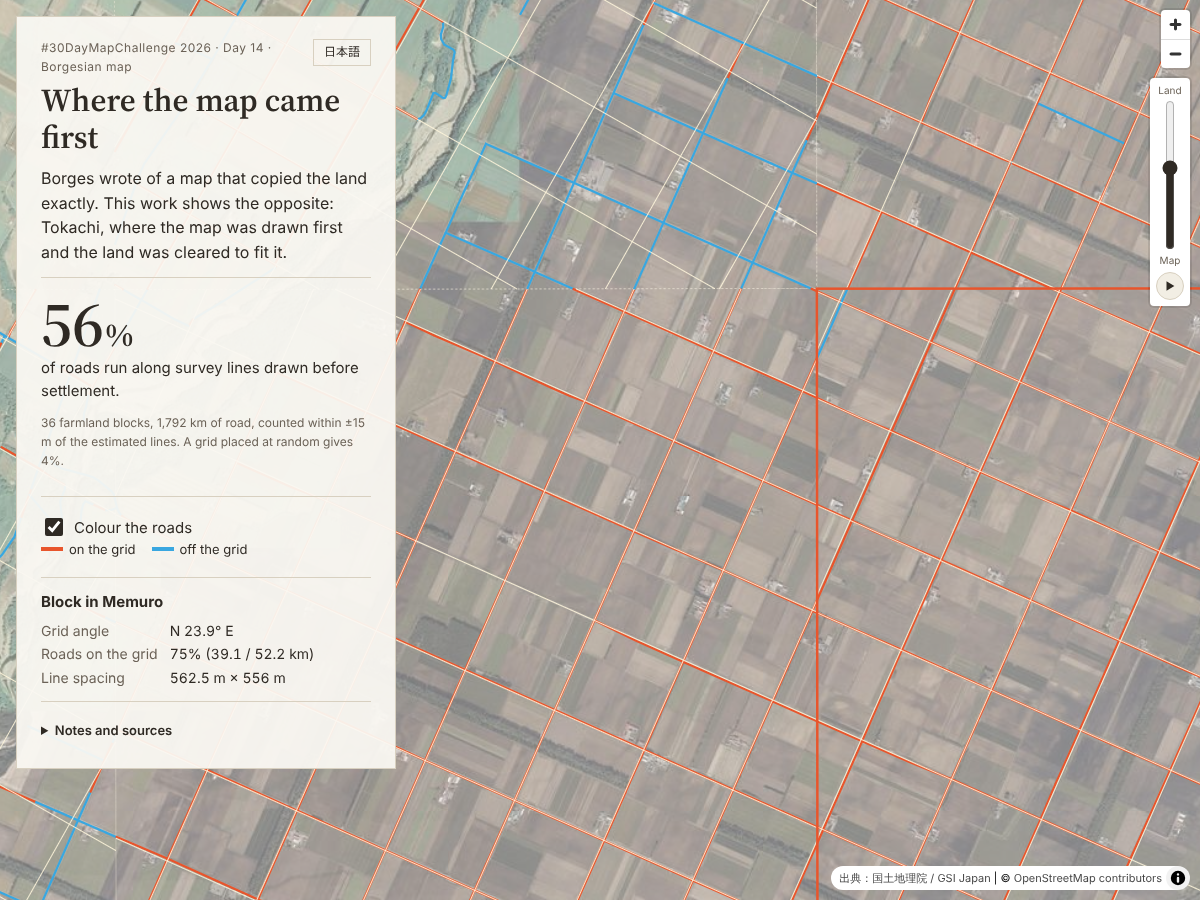
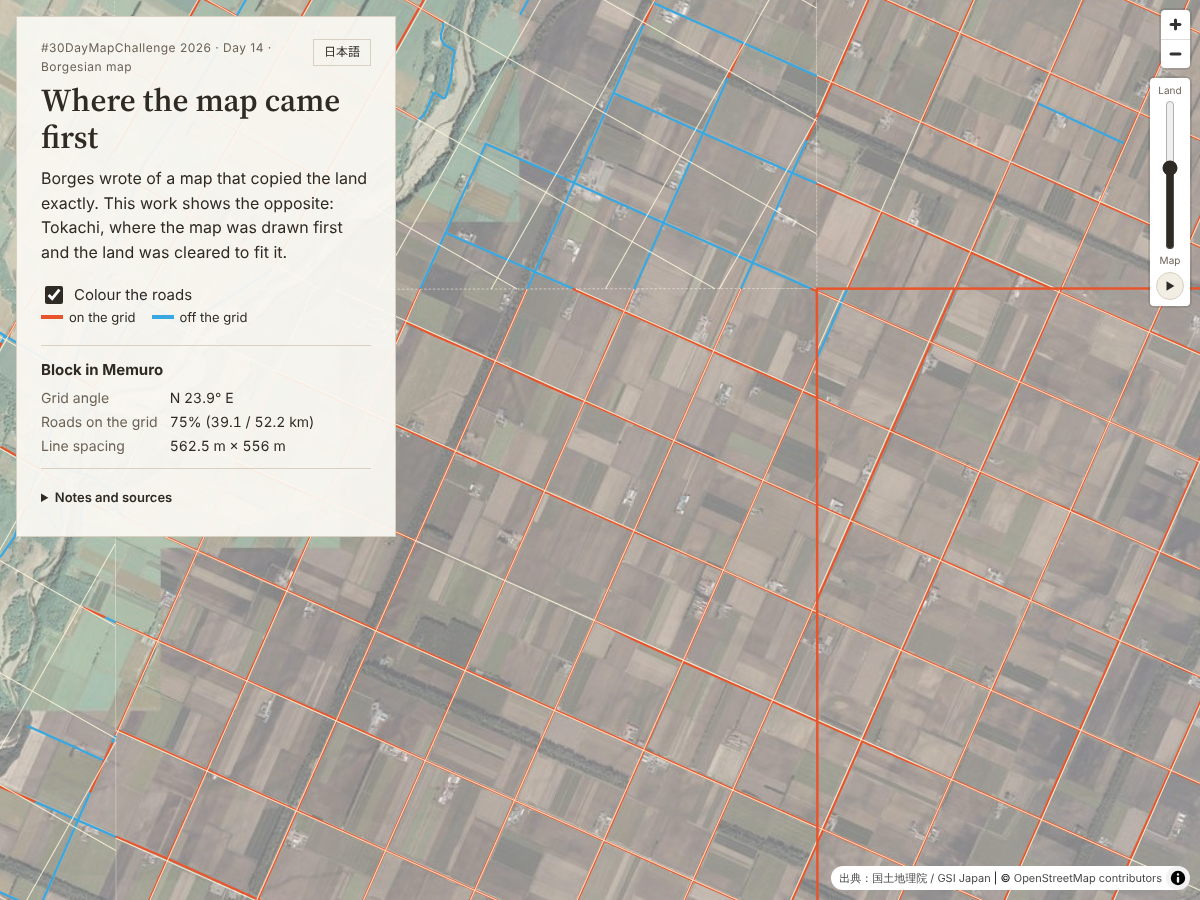
Move overall share into the notes and use a fitting-based comparison

Changed region(s): [[0.0, 0.3111, 0.3392, 0.8711]]

diff --git a/web/app.js b/web/app.js
@@ -18,11 +18,9 @@
       share: "Roads on the grid",
       length: "Road length",
       spacing: "Line spacing",
-      statText: "of roads run along survey lines drawn before settlement.",
-      statSub: "{tiles} farmland blocks, {km} km of road, counted within ±{tol} m of the estimated lines. A grid placed at random gives {base}%.",
       notesTitle: "Notes and sources",
       note1: "The grid is estimated from present-day roads. It is not the original survey plan.",
-      note2: "A road counts as on the grid when it runs within ±{tol} m of a fitted line and within {atol}° of its direction. The share depends on this threshold.",
+      note2: "A road counts as on the grid when it runs within ±{tol} m of a fitted line and within {atol}° of its direction. Counted this way, {share}% of the {km} km of road in the {tiles} blocks is on the grid. The same fitting applied to roads moved to random positions gives {null}%. The share depends on the threshold.",
       note3: "Road centrelines here repeat a little wider than 546 m (median {pitch} m), so the fit searches spacings from 545.5 to 570 m. With the spacing fixed at 545.5 m, the overall share is {fixed}%.",
       note4: "Study area: farmland blocks in Obihiro, Memuro, Makubetsu, Sarabetsu, Nakasatsunai, Shimizu and Taiki. Town centres, forests and hills are left out. Roads: OpenStreetMap as of {date}.",
       sources: 'Aerial photos: <a href="https://maps.gsi.go.jp/development/ichiran.html" target="_blank" rel="noopener">GSI Japan</a>, seamless aerial photos. Roads: © <a href="https://www.openstreetmap.org/copyright" target="_blank" rel="noopener">OpenStreetMap contributors</a> (ODbL). History: <a href="https://www.maff.go.jp/j/nousin/sekkei/museum/m_siki/07_tokati_heiya/index.html" target="_blank" rel="noopener">MAFF, Tokachi Plain</a>; <a href="https://www.hkd.mlit.go.jp/ob/tisui/kds/pamphlet/tabi/pdf/03-04-06-kaitaku-p143.pdf" target="_blank" rel="noopener">Hokkaido Regional Development Bureau, Obihiro (PDF)</a>. <a href="https://github.com/shinyanakashima/30daymapchallenge-2026day14-tokachi-grid" target="_blank" rel="noopener">Code and method</a>.',
@@ -50,11 +48,9 @@
       share: "格子の上を走る道路",
       length: "道路の長さ",
       spacing: "線の間隔",
-      statText: "入植前に引かれた区画線の上を走る道路の割合",
-      statSub: "農地{tiles}区画・道路{km}kmのうち、推定した線から±{tol}m以内の道路。格子の位置をランダムにすると{base}%。",
       notesTitle: "注記と出典",
       note1: "格子は現在の道路から推定したもので、当時の区画図そのものではありません。",
-      note2: "推定した線から±{tol}m以内を、線の向きと{atol}°以内の向きで走る道路を「格子の上」として数えています。割合はこのしきい値によって変わります。",
+      note2: "推定した線から±{tol}m以内を、線の向きと{atol}°以内の向きで走る道路を「格子の上」として数えています。この数え方で、{tiles}区画・道路{km}kmのうち{share}%が格子の上にあります。道路の位置をでたらめにずらして同じ当てはめをすると{null}%です。割合はしきい値によって変わります。",
       note3: "ここでの道路の中心線の間隔は546mより少し広く（中央値{pitch}m）、間隔は545.5〜570mの範囲で合わせています。間隔を545.5mに固定した場合の全体の割合は{fixed}%です。",
       note4: "対象範囲：帯広市、芽室町、幕別町、更別村、中札内村、清水町、大樹町の農地の区画。市街地、森林、山地は除いています。道路：OpenStreetMap（{date}時点）。",
       sources: '航空写真：<a href="https://maps.gsi.go.jp/development/ichiran.html" target="_blank" rel="noopener">国土地理院</a> シームレス空中写真。道路：© <a href="https://www.openstreetmap.org/copyright" target="_blank" rel="noopener">OpenStreetMap contributors</a>（ODbL）。歴史：<a href="https://www.maff.go.jp/j/nousin/sekkei/museum/m_siki/07_tokati_heiya/index.html" target="_blank" rel="noopener">農林水産省「十勝平野」</a>、<a href="https://www.hkd.mlit.go.jp/ob/tisui/kds/pamphlet/tabi/pdf/03-04-06-kaitaku-p143.pdf" target="_blank" rel="noopener">国土交通省 北海道開発局 帯広開発建設部（PDF）</a>。<a href="https://github.com/shinyanakashima/30daymapchallenge-2026day14-tokachi-grid" target="_blank" rel="noopener">コードと方法</a>。',
@@ -89,7 +85,8 @@
       km: Math.round(summary.road_km).toLocaleString(lang === "ja" ? "ja-JP" : "en-US"),
       tol: p.tolerance_m,
       atol: p.angle_tolerance_deg,
-      base: pct(summary.baseline_share),
+      share: pct(summary.share),
+      null: pct(summary.null_fit_share),
       fixed: pct(summary.share_fixed_546),
       pitch: summary.pitch_median,
       date: summary.osm_timestamp.slice(0, 10),
@@ -301,7 +298,6 @@
     .then((r) => r.json())
     .then((s) => {
       summary = s;
-      $("stat-value").textContent = pct(s.share);
       applyLang();
     });
 

diff --git a/web/style.css b/web/style.css
@@ -121,22 +121,6 @@ html[lang="ja"] h1 { font-family: "Noto Sans JP", var(--sans); font-size: 28px; 
 .notes a, .story a { color: var(--accent); }
 .sources { margin: 0; }
 
-.stat {
-  margin: 0 0 18px;
-  padding: 14px 0;
-  border-top: 1px solid var(--rule);
-  border-bottom: 1px solid var(--rule);
-}
-.stat-num {
-  font-family: var(--serif);
-  font-size: 64px;
-  line-height: 1;
-  font-weight: 600;
-  font-variant-numeric: tabular-nums;
-}
-.stat-num .pct { font-size: 32px; margin-left: 2px; }
-.stat-text { margin: 8px 0 4px; font-size: 15px; }
-.stat-sub { margin: 0; font-size: 12px; color: var(--ink-soft); }
 
 .panel-head { display: flex; justify-content: space-between; align-items: flex-start; gap: 12px; }
 .lang {
@@ -169,10 +153,6 @@ html[lang="ja"] h1 { font-family: "Noto Sans JP", var(--sans); font-size: 28px; 
   }
   h1 { font-size: 26px; }
   .lede { font-size: 15px; margin-bottom: 12px; }
-  .stat { padding: 10px 0; margin-bottom: 12px; }
-  .stat-num { font-size: 44px; }
-  .stat-num .pct { font-size: 22px; }
-  .stat-text { font-size: 13px; }
   .blend input[type="range"] { height: 110px; }
   .maplibregl-ctrl-bottom-right { bottom: 46vh; }
 }

diff --git a/web/index.html b/web/index.html
@@ -24,12 +24,6 @@
   <div id="story" class="story">
     <p class="lede" data-i18n="borges"></p>
 
-    <div id="stat" class="stat" aria-live="polite">
-      <div class="stat-num"><span id="stat-value">–</span><span class="pct">%</span></div>
-      <p class="stat-text" data-i18n="statText"></p>
-      <p class="stat-sub" data-i18n="statSub"></p>
-    </div>
-
     <div class="control">
       <label class="check">
         <input id="roads" type="checkbox" checked>

diff --git a/scripts/fit_grid.py b/scripts/fit_grid.py
@@ -15,13 +15,15 @@ Method (per tile of TILE_M x TILE_M metres):
      PITCH_MAX_M) are chosen so that the length of parallel road lying within
      TOL_M of a line is maximised. A run with the spacing fixed at 545.5 m is
      also reported in summary.json.
+  5. Null model: every road is moved by a random offset (directions kept)
+     and the same fitting is run, to show how much share the fitting alone
+     produces (null_fit_share in summary.json).
   4. Share: a road point counts as "on the grid" when it lies within TOL_M of
      a fitted line and runs within ANGLE_TOL_DEG of that line's direction.
 """
 
 import json
 import math
-import random
 from pathlib import Path
 
 import numpy as np
@@ -198,7 +200,9 @@ def main():
     on_all = np.zeros(len(P), dtype=bool)
     used = np.zeros(len(P), dtype=bool)
     tiles, grid_feats = [], []
-    rng = random.Random(14)
+    # null model: every road moved by a random offset, directions kept
+    shifts = np.random.default_rng(14).uniform(0, 2000, (len(ways), 2))
+    P_null = P + shifts[WID]
     base_on, base_tot, fixed_on = 0.0, 0.0, 0.0
     PITCHES = np.arange(SPACING_M, PITCH_MAX_M + 1e-9, PITCH_STEP_M)
 
@@ -231,12 +235,13 @@ def main():
             on_all[m] = on
             used[m] = True
             share = Wm[on].sum() / Wm.sum()
-            # chance baseline: same orientation, random offsets
-            bs = []
-            for _ in range(20):
-                o, *_ = classify(Pm, Dm, theta, rng.uniform(0, spa), rng.uniform(0, spb), spa, spb)
-                bs.append(Wm[o].sum())
-            base_on += float(np.mean(bs))
+            # null model: same fitting applied to randomly shifted roads
+            Pn = P_null[m]
+            _, n1, n2, q1, q2 = classify(Pn, Dm, theta, 0, 0)
+            an, sna = fit_offset(n2[q1], Wm[q1], PITCHES)
+            bn, snb = fit_offset(n1[q2], Wm[q2], PITCHES)
+            o, *_ = classify(Pn, Dm, theta, an, bn, sna, snb)
+            base_on += Wm[o].sum()
             base_tot += Wm.sum()
 
             # convert angle to true north: meridian convergence of the tmerc grid
@@ -311,7 +316,7 @@ def main():
     pitches = [p for f in tiles for p in f["properties"]["pitch"]]
     summary = {
         "share": round(float(on_len / total), 4),
-        "baseline_share": round(base_on / base_tot, 4),
+        "null_fit_share": round(float(base_on / base_tot), 4),
         "share_fixed_546": round(float(fixed_on / base_tot), 4),
         "pitch_min": min(pitches), "pitch_max": max(pitches),
         "pitch_median": round(float(np.median(pitches)), 1),

diff --git a/README.md b/README.md
@@ -31,7 +31,7 @@
 | 格子の向き（真北から） | 西へ38.8°〜東へ39.4°（区画ごと。原野ごとに基線が異なるため） |
 | 推定した線の間隔 | 545.5〜567.0 m（中央値 555.5 m） |
 | 間隔を545.5mに固定した場合の割合 | 34.6% |
-| でたらめな位置に置いた格子の割合（比較用） | 4.1% |
+| 道路の位置をでたらめにずらして同じ当てはめをした場合（比較用） | 15.3% |
 
 数値は `web/data/summary.json` と `web/data/tiles.geojson` に入っています。
 
@@ -48,7 +48,7 @@
 4. **向き:** 道路の向きを0〜90°に折りたたみ、長さで重み付けしたヒストグラム（0.25°刻み、σ1°で平滑化）の最頻値を格子の向きとします。
 5. **位置と間隔:** 格子の2方向の線それぞれについて、線と平行な道路の長さが、線から±15m以内に最も多く入るように、線の位置（ずれ）と間隔を求めます。間隔は300間＝545.45mから570mまで0.5m刻みで探します。今の道路の中心線は546mよりわずかに広い間隔（中央値555.5m）で並んでいたため、間隔を固定すると区画の端に行くほど線がずれてしまうためです。比較のため、間隔を545.45mに固定した結果も `share_fixed_546` として出しています。
 6. **判定:** 道路の点が、推定した線から **±15m以内** にあり、かつ線の向きと **15°以内** の向きで走っているとき「格子の上」と数えます。交差するだけの道路は数えません。
-7. **比較値:** 同じ向き・間隔のまま、線の位置をでたらめに20回置いたときの割合の平均を `baseline_share` として出しています。
+7. **比較値:** 道路を1本ずつでたらめな位置（0〜2,000m）にずらし、向きは保ったまま同じ当てはめをしたときの割合を `null_fit_share` として出しています。格子がなくても、当てはめの手順だけでこの程度の割合は出ます。
 
 対象の道路は OSM の `highway` が motorway / trunk / primary / secondary / tertiary / unclassified / residential とそれぞれの `_link` です。`track`（農道の一部）と `service` は含めていません。
 
